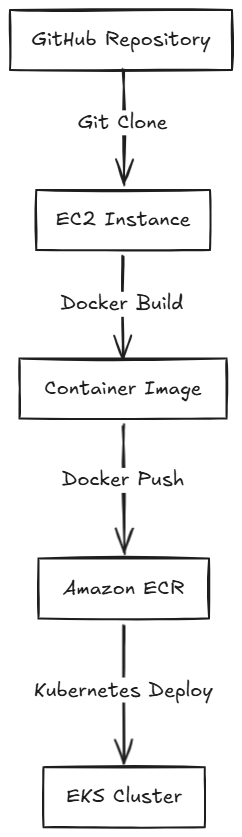
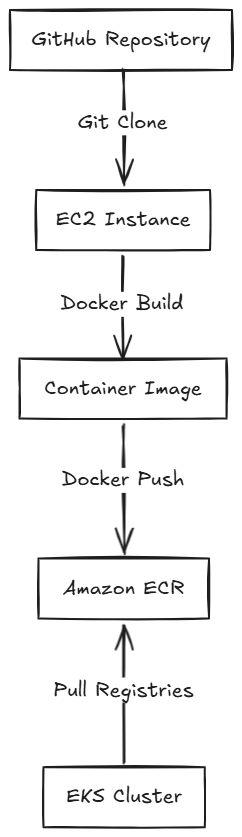
update syntax and image

Changed region(s): [[0.1446, 0.8076, 0.8678, 0.8387], [0.4628, 0.8698, 0.5496, 0.9319], [0.4628, 0.7455, 0.5496, 0.7766]]

diff --git a/03 - Create Kubernetes Manifests/03 - Create Kubernetes Manifests.md b/03 - Create Kubernetes Manifests/03 - Create Kubernetes Manifests.md
@@ -16,17 +16,18 @@
 ---
 
 ## 📋 Table of Contents
-* [📝 Create Kubernetes Manifests](#-create-kubernetes-manifests)
-* [📋 Table of Contents](#-table-of-contents)
-* [🎯 Overview](#-overview)
-* [🛠 Tools and Concepts](#-tools-and-concepts)
-* [💭 Project Reflection](#-project-reflection)
-* [Project Setup](#project-setup)
-* [🚀 Deployment Manifest](#-deployment-manifest)
-* [🌐 Service Manifest](#-service-manifest)
-* [📦 The Power of Annotations Deployment Manifest](#-the-power-of-annotations-deployment-manifest)
-* [🎓 Key Learnings](#-key-learnings)
-* [Conceptual Understanding Architecture Overview](#conceptual-understanding-architecture-overview)
+- [📝 Create Kubernetes Manifests](#-create-kubernetes-manifests)
+- [📋 Table of Contents](#-table-of-contents)
+- [🎯 Overview](#-overview)
+- [🛠 Tools and Concepts](#-tools-and-concepts)
+- [💭 Project Reflection](#-project-reflection)
+- [Project Setup](#project-setup)
+- [📄 Manifest Files (START HERE)](#-manifest-files-start-here)
+- [🚀 Deployment Manifest](#-deployment-manifest)
+- [🌐 Service Manifest](#-service-manifest)
+- [📦 The Power of Annotations Deployment Manifest](#-the-power-of-annotations-deployment-manifest)
+- [🎓 Key Learnings](#-key-learnings)
+- [Conceptual Understanding Architecture Overview](#conceptual-understanding-architecture-overview)
 
 ---
 

diff --git a/README.md b/README.md
@@ -145,7 +145,23 @@ If you are setting up this project for the first time, keep these troubleshootin
 
 # 🌐 Accessing the Backend
 
-Once the deployment is verified, access your application based on the Service type:
+## Introduction 
+
+<div align="center">
+  <img src="assets/hacker news.png" alt="NodePort Access" width="700" />
+</div>
+
+### Breakdown 
+[Hacker News](https://news.ycombinator.com/news) is an online platform and community where you can read and discuss tech-related news and industry trends.
+
+### To Do 
+backend app i'm pulling from GitHub is a tool that:
+  1. Takes a user’s input (e.g. aws) from Hacker News.
+  2. Runs the input as a search query in Search Hacker News.
+  3. Processes the search results and formats them into JSON data.
+
+
+Once the deployment is verified, i'm accessing the application based on the Service type:
 
 ### Using NodePort
 

diff --git a/02 - Set Up Kubernetes Deployment/02 - Set Up Kubernetes Deployment.md b/02 - Set Up Kubernetes Deployment/02 - Set Up Kubernetes Deployment.md
@@ -88,7 +88,7 @@ In this project, I cloned the backend application code from GitHub, built a Dock
 
 ### Setting Up the EKS Cluster
 
-**Step-by-step process:** [reference here](<../01 - Launch a Kubernetes Cluster/01 - Launch a Kubernetes Cluster.md>))
+**Step-by-step process:** [reference here](<../01 - Launch a Kubernetes Cluster/01 - Launch a Kubernetes Cluster.md>)
 
 1. 🖥 Launched and connected to an EC2 instance
 2. 📥 Installed the `eksctl` command-line tool
